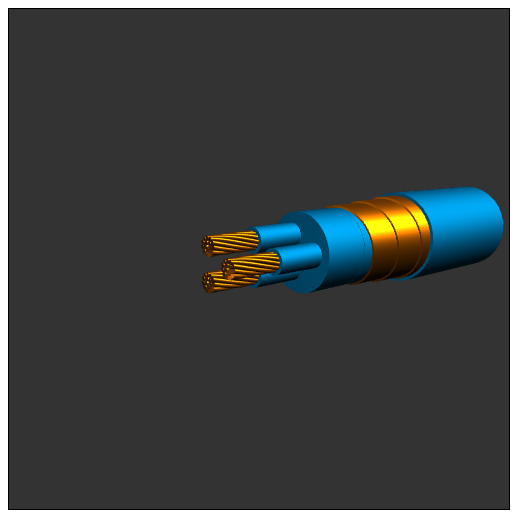
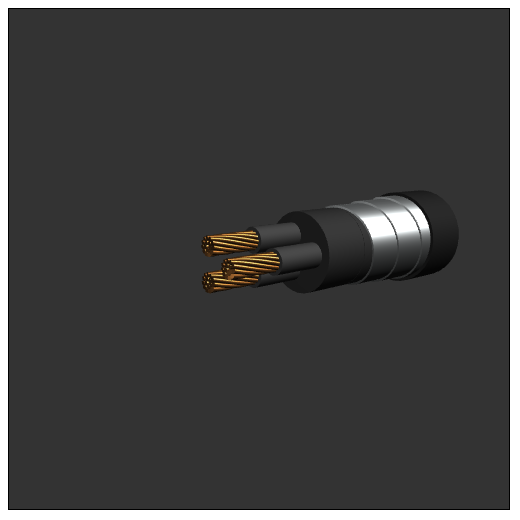
Dev

Changed region(s): [[0.4, 0.3385, 0.9846, 0.5846]]

diff --git a/src/bloomFilter.js b/src/bloomFilter.js
@@ -1,121 +1,32 @@
 import * as THREE from "three";
-import { BoxBufferGeometry } from "three";
-import { Line2 } from "three/examples/jsm/lines/Line2";
-import { LineGeometry } from "three/examples/jsm/lines/LineGeometry";
-import { LineMaterial } from "three/examples/jsm/lines/LineMaterial";
-
 //import { OrbitControls } from 'three/examples/jsm/controls/OrbitControls';
-
-import { ShapeGenerator } from "./ShapeGenerator";
-var shapeGenerator = new ShapeGenerator;
-
+import { SceneCreator } from "./SceneCreator";
 import { CableGenerator } from "./CableGenerator";
 
-const SIZE = 500;
-const CANVAS_STYLE = `width: ${SIZE}px; height: ${SIZE}px; position: absolute; top: 10; left: 10; border: 1px solid black; z-index: 2`;
+const sceneCreator = new SceneCreator(500);
+const { scene, camera, renderer } = sceneCreator.make();
 
-const init = () => {
-  let scene = new THREE.Scene();
-  var camera = new THREE.PerspectiveCamera(45, SIZE/SIZE, 1, 1000);
-  // Light
-  scene.add(new THREE.AmbientLight(0x222222));
+function render() {
+  var cableGenerator = new CableGenerator();
 
-  
-  var light3 = new THREE.PointLight(0xffffff, 0.3);
-  light3.position.set(-10, 0, 0);
-  scene.add(light3);
-
-
-const color = 0xFFFFFF;
-const intensity = 1;
-const light = new THREE.DirectionalLight(color, intensity);
-light.position.set(10, 10, 10);
-light.target.position.set(0, 0, 0);
-scene.add(light);
-scene.add(light.target);  
-
-
-const color2 = 0xFFFFFF;
-const intensity2 = 0.6;
-const light2 = new THREE.DirectionalLight(color2, intensity2);
-light2.position.set(0, -10, 10);
-light2.target.position.set(0, 0, 0);
-//scene.add(light2);
-scene.add(light2.target);  
-
-
-  let renderer = new THREE.WebGLRenderer({
-    alpha: true,
-    antialias: true,
-  });
-  renderer.setPixelRatio(window.devicePixelRatio);
-  renderer.clearColor = new THREE.Color(0x00ff00);
-  renderer.setSize(SIZE, SIZE);
-  renderer.domElement.style = CANVAS_STYLE;
-  document.body.appendChild(renderer.domElement);
-
-  return { scene, camera, renderer };
-};
-
-const drawLine = () => {
-  const { scene, camera, renderer } = init();
-
-
-camera.position.set(-30, 10, 40);
-camera.lookAt(new THREE.Vector3(5, 0, 0));
-
-////////////////////////////////////////////////////////////// 
-
-
-function getUrlParam(key, defaultValue) {
-  var url_string = location.href;
-  var url = new URL(url_string);
-  var value = url.searchParams.get(key);
-  return value !== null ? value : defaultValue;
-}
-
-function getUrlParamBool(key, defaultValue) {
-  var value = getUrlParam(key, null);
-  if (value !== null) {
-    return value != 0;
-  }
-  return defaultValue;
-}
-
-// Кол-во кабелей (1 - 4)
-var cablesCount = getUrlParam("cables-count", 3);
-// Радиус провода в скрутке
-var wireRadius = getUrlParam("wire-radius", 0.564189583548);
-// Кол-во проводов в скрутке (пока не более 16)
-var wiresCount = getUrlParam("wires-count", 16);
-// Наличии изоляции для каждого кабеля (синяя)
-var hasCableInsulation = getUrlParamBool("has-cable-insulation", true);
-// Наличие защитной оболочки для каждого кабеля (серая)
-var hasCableShield = getUrlParamBool("has-cable-shield", true);
-// Наличие защитной оболочки вокруг всех кабелей
-var hasOverallShield = getUrlParamBool("has-overall-shield", true);
-
-// Цвет самого кабеля
-var coverColor = 0x003333;
-  
-var cableGenerator = new CableGenerator();
-
-  var cable = cableGenerator.twistedCircleWire(0.2, 16, cableGenerator.materials.copper)
-    .circleWireCover(0.3, cableGenerator.materials.insulation)
+  var cable = cableGenerator.twistedCircleWire(0.2, 16, "steel", "copper")
+    .circleWireCover(0.3, "plastic", 0x444444)
     .clone(3)
-    .circleWireCover(0.5, cableGenerator.materials.insulation)
-    .ribbon(cableGenerator.materials.copper)
-    .circleWireCover(0.4, cableGenerator.materials.insulation, true)
+    .circleWireCover(0.5, "plastic", 0x333333)
+    .ribbon("steel")
+    .circleWireCover(0.4, "plastic")
     .compileScene();
 
   scene.add(cable);
-
   //controls.update();
   renderer.render(scene, camera);
 };
 
-const runAll = () => {
-  drawLine();
-};
+render();
 
-runAll();
+// Тонкая пленка из фольги (сталь)
+// Экструдированный полимерный слой (любой цвет полимера)
+// Проволока панцирем (медь или облуженная)
+// Гофра (сталь)
+// Проволока сеткой (медь или облуженная)
+// Лента (сталь)

diff --git a/src/CableGenerator.js b/src/CableGenerator.js
@@ -3,6 +3,7 @@ import { TwistedCircleWireGenerator } from "./TwistedCircleWireGenerator";
 import { CircleWireCoverGenerator } from "./CircleWireCoverGenerator";
 import { CloneGenerator } from "./CloneGenerator";
 import { RibbonGenerator } from "./RibbonGenerator";
+import { Materials } from "./Materials";
 
 class CableGenerator {
 
@@ -16,31 +17,13 @@ class CableGenerator {
   objects = [];
 
   constructor() {
-    this.initMaterials();
+    this.materials = new Materials();
   }
 
-  initMaterials() {
-    this.materials = {
-      copper: new THREE.MeshLambertMaterial({color: 0xff8000, wireframe: false}),
-      insulation: new THREE.MeshLambertMaterial({color: 0x006699, wireframe: false})
-    };
-
-    this.materials.copper = new THREE.MeshStandardMaterial({
-      metalness: 0.7,   // between 0 and 1
-      roughness: 0.5, // between 0 and 1
-      color: 0xff8000
-    });
-
-    this.materials.insulation = new THREE.MeshPhongMaterial({
-      color: 0x006699,
-      specular: 0x0088bb,
-      shininess: 4
-    });
-
-  }
-
-  twistedCircleWire(radius, count, material) {
-    var twistedCircleWireGenerator = new TwistedCircleWireGenerator(radius, count, this.intersectionStepLength, material);
+  twistedCircleWire(radius, count, material, faceMaterial = null) {
+    material = this.materials.getMaterialByCode(material);
+    faceMaterial = faceMaterial ? this.materials.getMaterialByCode(faceMaterial) : material;
+    var twistedCircleWireGenerator = new TwistedCircleWireGenerator(radius, count, this.intersectionStepLength, material, faceMaterial);
     var wire = twistedCircleWireGenerator.generate();
     wire.position.set(this.currentIntersectionStep, 0, 0);
     this.currentIntersectionStep += this.intersectionStepLength;
@@ -49,7 +32,8 @@ class CableGenerator {
     return this;
   }
 
-  circleWireCover(coverWidth, material, extendToFullWidth = false) {
+  circleWireCover(coverWidth, material, color = null, extendToFullWidth = false) {
+    material = this.materials.getMaterialByCode(material, color);
     var radius = this.currentRadius + coverWidth;
     var width = extendToFullWidth ? this.width - this.currentIntersectionStep : this.intersectionStepLength;
     var circleWireCoverGenerator = new CircleWireCoverGenerator(radius, width, material);
@@ -61,7 +45,8 @@ class CableGenerator {
     return this;
   }
 
-  ribbon(material) {
+  ribbon(material, color = null) {
+    material = this.materials.getMaterialByCode(material, color);
     var radius = this.currentRadius;
     var width = this.intersectionStepLength * 2;
     var underlyingObject = this.objects[this.objects.length - 1];

diff --git a/src/SceneCreator.js b/src/SceneCreator.js
@@ -1,0 +1,45 @@
+import * as THREE from "three";
+
+class SceneCreator {
+
+  constructor(size) {
+    this.size = size;
+    this.canvasStyle = `width: ${this.size}px; height: ${this.size}px; position: absolute; top: 10; left: 10; border: 1px solid black; z-index: 2`;
+  }
+
+  make() {
+    let scene = new THREE.Scene();
+    var camera = new THREE.PerspectiveCamera(45, this.size / this.size, 1, 1000);
+
+    scene.add(new THREE.AmbientLight(0x222222));
+
+    var pointLight = new THREE.PointLight(0xffffff, 0.3);
+    pointLight.position.set(-10, 0, 0);
+    scene.add(pointLight);
+
+    const directionalLight = new THREE.DirectionalLight(0xFFFFFF, 1);
+    directionalLight.position.set(10, 10, 10);
+    directionalLight.target.position.set(0, 0, 0);
+    scene.add(directionalLight);
+    scene.add(directionalLight.target);  
+
+    let renderer = new THREE.WebGLRenderer({
+      alpha: true,
+      antialias: true,
+    });
+
+    renderer.setPixelRatio(window.devicePixelRatio);
+    renderer.clearColor = new THREE.Color(0xffffff);
+    renderer.setSize(this.size, this.size);
+    renderer.domElement.style = this.canvasStyle;
+    document.body.appendChild(renderer.domElement);
+
+    camera.position.set(-30, 10, 40);
+    camera.lookAt(new THREE.Vector3(5, 0, 0));
+
+    return { scene, camera, renderer };
+  }
+
+}
+
+export { SceneCreator };

diff --git a/src/TwistedCircleWireGenerator.js b/src/TwistedCircleWireGenerator.js
@@ -1,14 +1,16 @@
 import * as THREE from "three";
 import { EquiCirclePackings } from "./EquiCirclePackings";
 import { ShapeGenerator } from "./ShapeGenerator";
+import { SceneUtils } from 'three/examples/jsm/utils/SceneUtils';
 
 class TwistedCircleWireGenerator {
 
-  constructor(radius, count, width, material) {
+  constructor(radius, count, width, material, faceMaterial = null) {
     this.radius = radius;
     this.count = count;
     this.width = width;
     this.material = material;
+    this.faceMaterial = faceMaterial ? faceMaterial : material;
     this.shapeGenerator = new ShapeGenerator;
     this.equiCirclePackings = new EquiCirclePackings(radius, count);
     this.totalRadius = this.equiCirclePackings.getTotalRadius();
@@ -31,10 +33,15 @@ class TwistedCircleWireGenerator {
     var extrudeSettings = {
       steps: 200,
       bevelEnabled: false,
-      extrudePath: wireSpline
+      extrudePath: wireSpline,
+      material: 1, 
+      extrudeMaterial: 2
     };
     var geometry = new THREE.ExtrudeGeometry(circleShape, extrudeSettings);
-    var mesh = new THREE.Mesh(geometry, this.material);
+
+    var mesh = SceneUtils.createMultiMaterialObject( geometry, [ this.material, this.faceMaterial ] );
+
+//    var mesh = new THREE.Mesh(geometry, this.material);
     return mesh;
   }
 

diff --git a/src/Materials.js b/src/Materials.js
@@ -1,0 +1,37 @@
+import * as THREE from "three";
+
+class Materials {
+
+  constructor() {
+    
+  }
+
+  getMaterialByCode(code, color = null) {
+    switch(code) {
+      case 'copper':
+        return new THREE.MeshStandardMaterial({
+              metalness: 0.7,
+              roughness: 0.5,
+              color: color != null ? color : 0xB87333
+            });
+        break;
+      case 'steel':
+        return new THREE.MeshStandardMaterial({
+              metalness: 0.7,
+              roughness: 0.5,
+              color: color != null ? color : 0xced3d4
+            });
+        break;
+      default:
+        return new THREE.MeshPhongMaterial({
+              color: color != null ? color : 0x222222,
+              //specular: 0x0088bb,
+              shininess: 4
+            });
+        break;
+    }
+  }
+
+}
+
+export { Materials };
